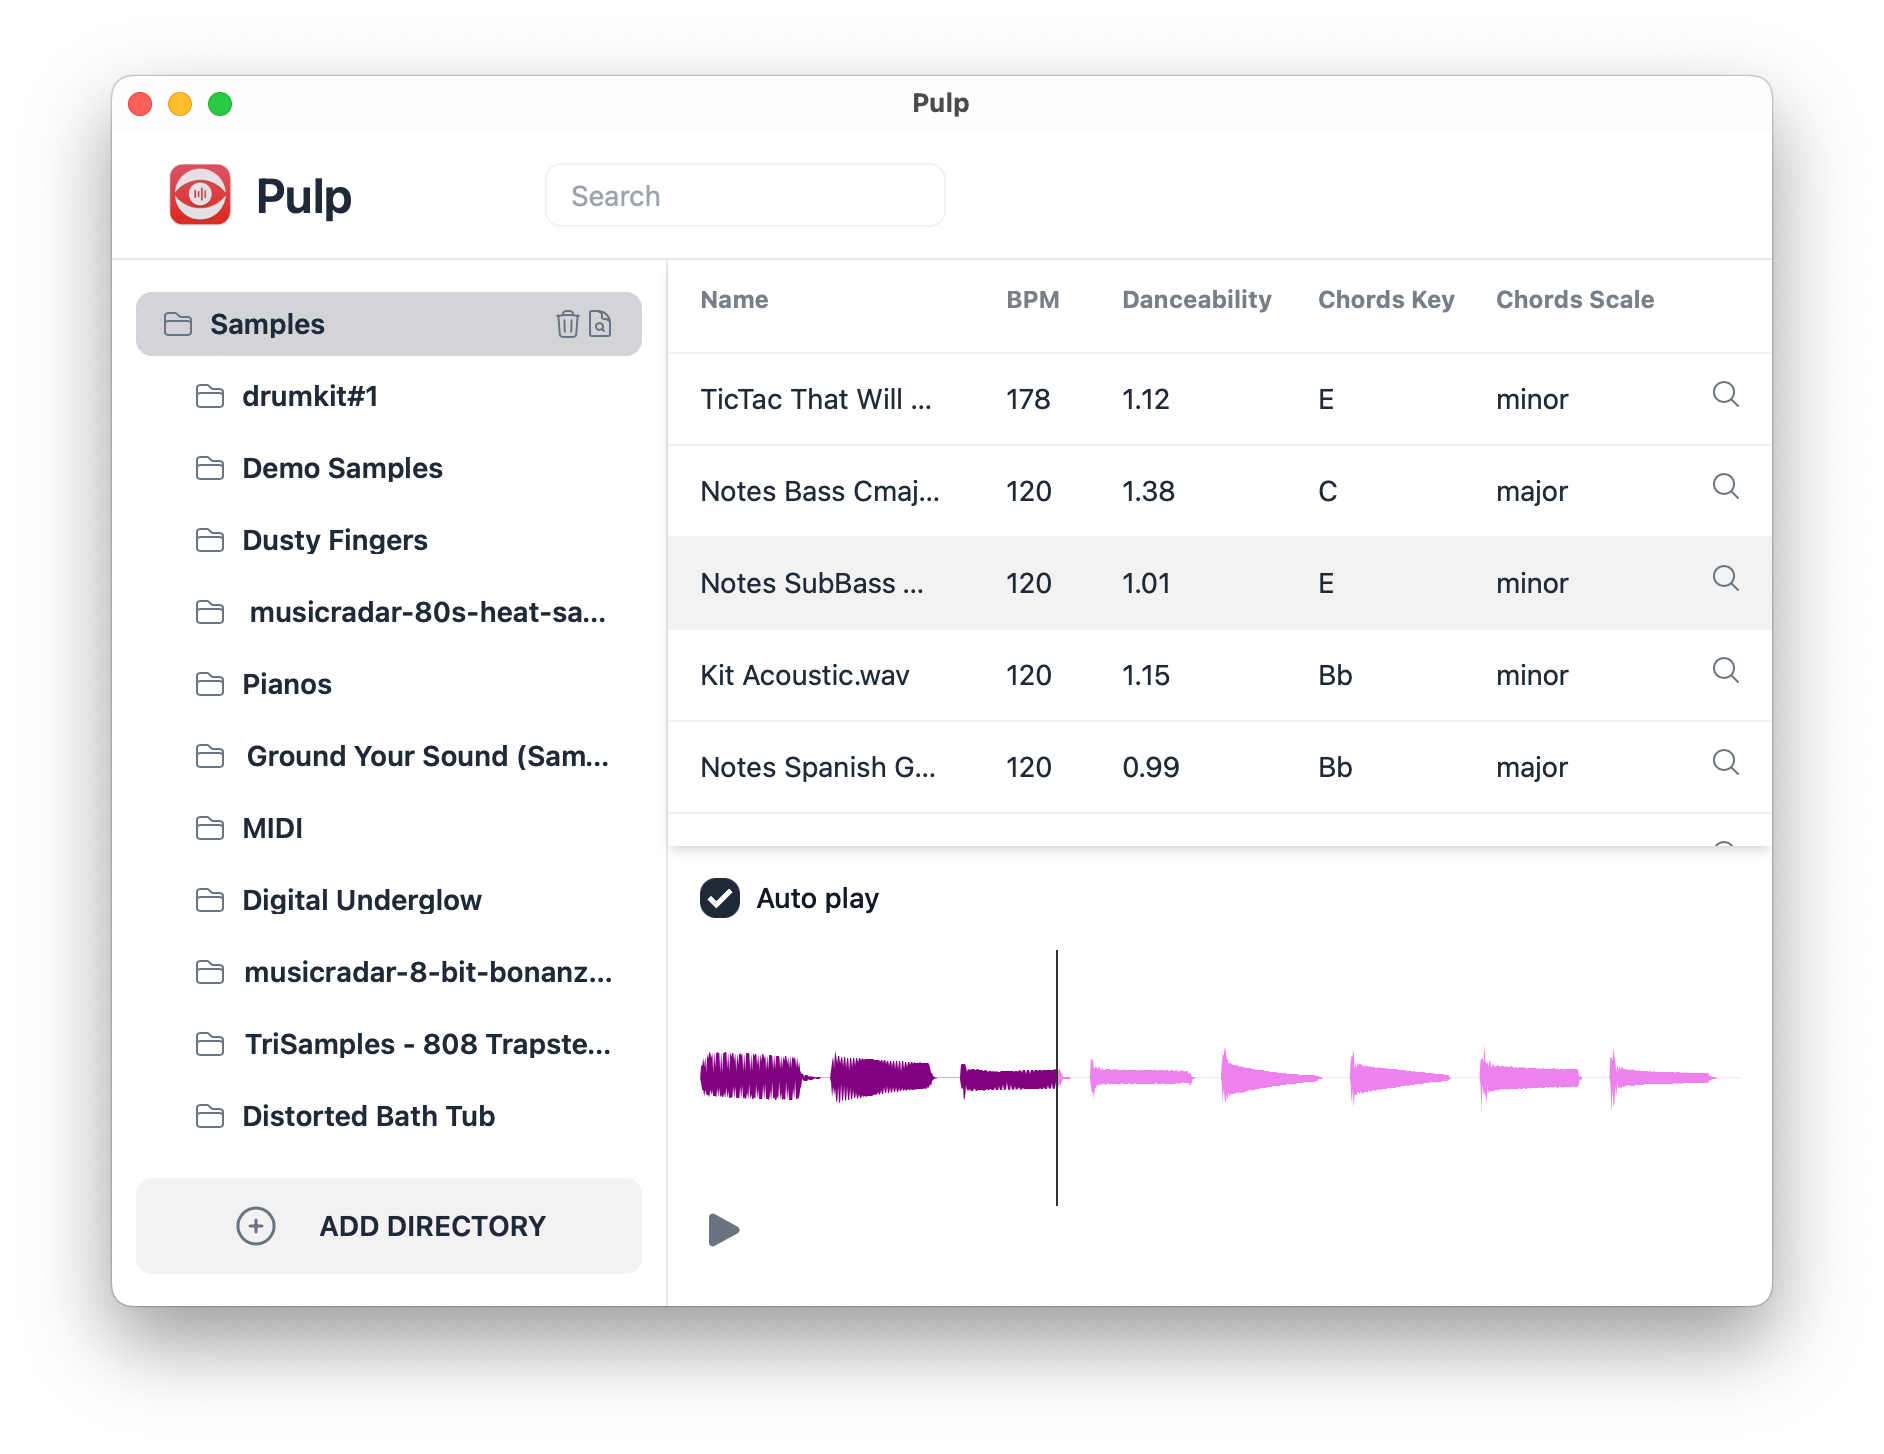
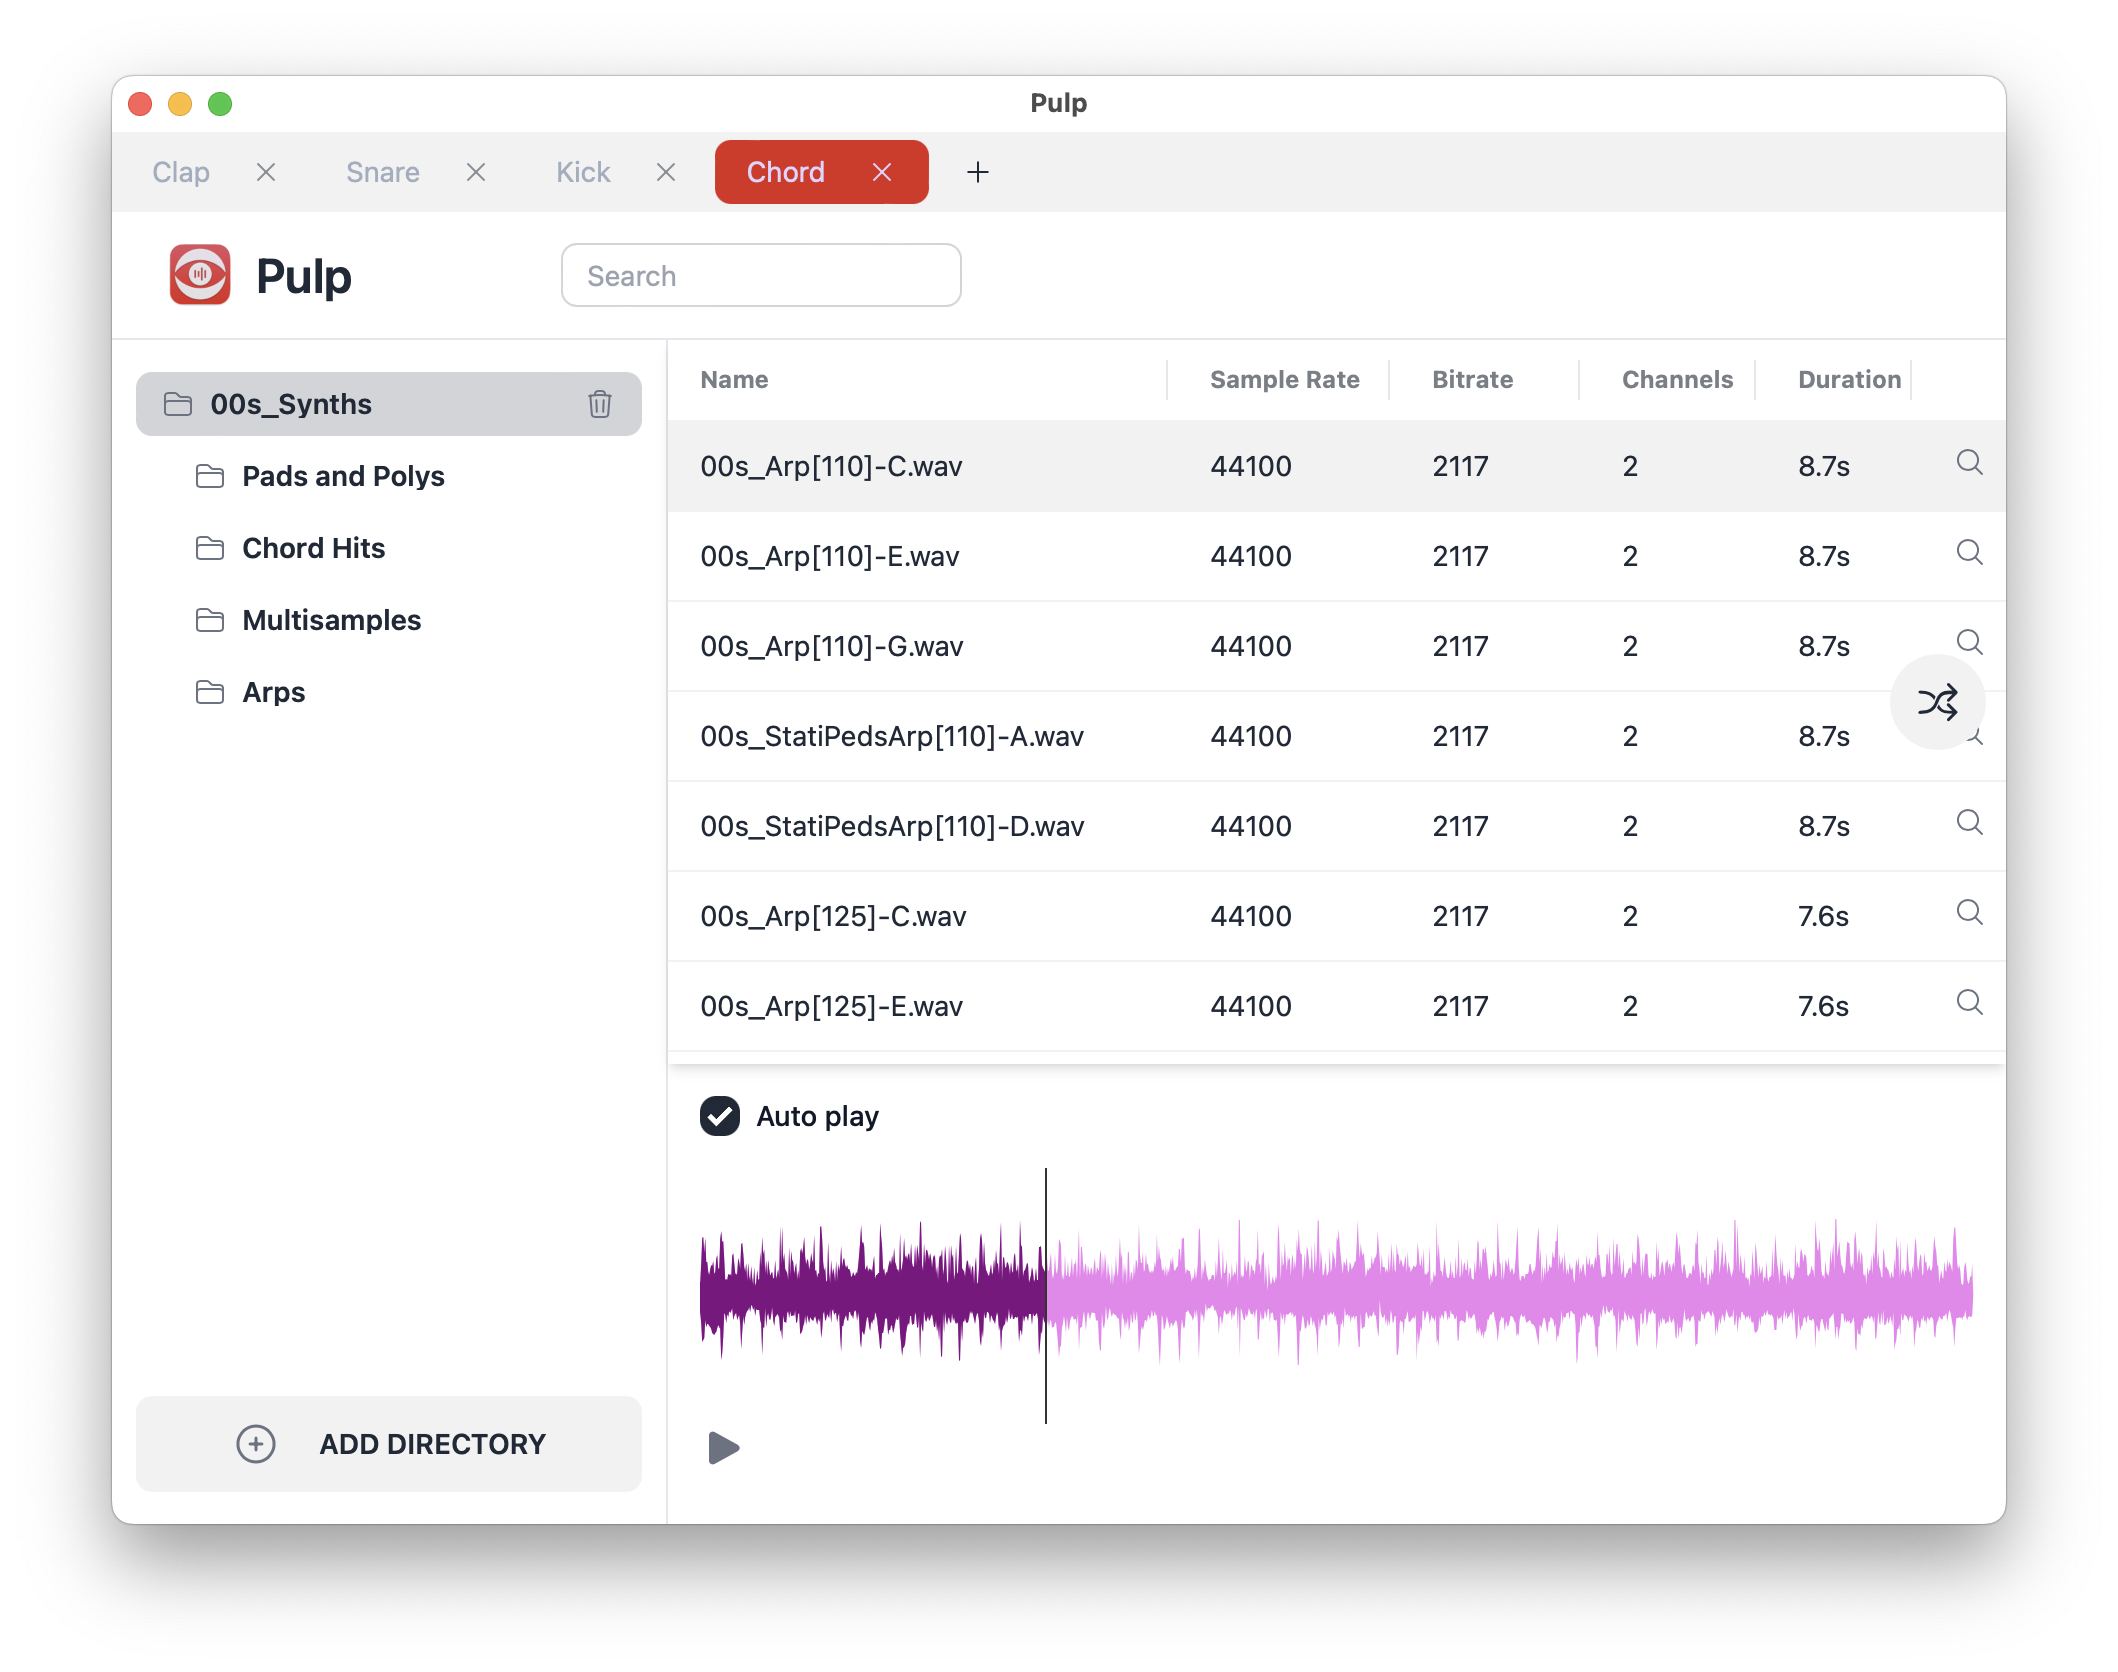
feat: rename tabs and UI fix (#15)

diff --git a/src/components/Tabs/Tabs.tsx b/src/components/Tabs/Tabs.tsx
@@ -1,8 +1,9 @@
 import tabsStore from "@/stores/tabsStore/tabsStore";
 import { Icon } from "solid-heroicons";
 import { plus, xMark } from "solid-heroicons/outline";
-import { Component, FlowComponent, For } from "solid-js";
+import { Component, FlowComponent, For, createSignal } from "solid-js";
 import { Dynamic } from "solid-js/web";
+import { useFocus } from "solidjs-use";
 
 interface Props {
   setActive: (tabIndex: number) => void;
@@ -13,30 +14,57 @@ interface Props {
 const Tabs: FlowComponent<Props, Component<any>> = (props) => {
   return (
     <>
-      <div class="tabs tabs-boxed tabs-xs flex items-center rounded-none">
+      <div class="tabs tabs-boxed tabs-xs flex items-center rounded-none overflow-x-auto flex-nowrap">
         <For each={tabsStore.data}>
           {(item, index) => {
+            const [target, setTarget] = createSignal<HTMLInputElement>();
+            const [, setFocused] = useFocus(target);
+            const [getRenamingMode, setRenamingMode] = createSignal(false);
+
             return (
-              <>
-                <a
-                  onClick={() => props.setActive(index())}
-                  class="tab"
-                  classList={{
-                    "tab-active": item.active,
+              <a
+                ondblclick={(event) => {
+                  event.stopPropagation();
+                  setRenamingMode(true);
+                  setFocused(true);
+                  target()?.select();
+                }}
+                onClick={() => props.setActive(index())}
+                class="tab flex-shrink-0"
+                classList={{
+                  "tab-active": item.active,
+                }}
+              >
+                <label class="input-sizer" data-value={item.name}>
+                  <input
+                    ref={setTarget}
+                    type="text"
+                    value={item.name}
+                    disabled={!getRenamingMode()}
+                    onBlur={() => setRenamingMode(false)}
+                    onInput={(event) => {
+                      tabsStore.rename(index(), event.target.value);
+                    }}
+                    onKeyDown={(event) => {
+                      if (event.key === "Enter") {
+                        event.preventDefault();
+                        setFocused(false);
+                      }
+                    }}
+                  />
+                </label>
+
+                <button
+                  class="ml-4 currentColor"
+                  onClick={(event) => {
+                    event.stopPropagation();
+                    tabsStore.activateNextOrPreviousTab(index());
+                    tabsStore.closeTab(index());
                   }}
                 >
-                  {item.name || `Tab ${index()}`}
-                  <button
-                    class="ml-4 currentColor"
-                    onClick={(event) => {
-                      event.stopPropagation();
-                      tabsStore.closeTab(index());
-                    }}
-                  >
-                    <Icon path={xMark} class="flex-shrink-0 w-4" />
-                  </button>
-                </a>
-              </>
+                  <Icon path={xMark} class="flex-shrink-0 w-4" />
+                </button>
+              </a>
             );
           }}
         </For>

diff --git a/src/stores/tabsStore/tabsStore.ts b/src/stores/tabsStore/tabsStore.ts
@@ -18,9 +18,9 @@ const setTabsStore: SetStoreFunction<ITabs[]> = (...args: any[]) => {
 };
 
 const addTab = (): void => {
-  setTabsStore((t) => [
-    ...t,
-    { ...cloneDeep(initialSearchStore), name: `Tab ${t.length}` },
+  setTabsStore((tabs) => [
+    ...tabs,
+    { ...cloneDeep(initialSearchStore), name: `Tab ${tabs.length + 1}` },
   ]);
 };
 
@@ -28,6 +28,12 @@ const closeTab = (tabIndex: number): void => {
   setTabsStore((tabs) => {
     return tabs.filter((_, index) => index !== tabIndex);
   });
+};
+
+const activateNextOrPreviousTab = (tabIndex: number): void => {
+  const nextIndex =
+    tabIndex + 1 < appStore.tabs.length ? tabIndex + 1 : tabIndex - 1;
+  active(nextIndex);
 };
 
 const active = (tabIndex: number): void => {
@@ -38,6 +44,10 @@ const active = (tabIndex: number): void => {
   });
 };
 
+const rename = (tabIndex: number, name: string): void => {
+  setTabsStore(tabIndex, "name", name);
+};
+
 export default {
   get data() {
     return appStore.tabs;
@@ -46,4 +56,6 @@ export default {
   addTab,
   active,
   closeTab,
+  activateNextOrPreviousTab,
+  rename,
 };

diff --git a/src/index.css b/src/index.css
@@ -129,3 +129,33 @@ body {
         @apply text-base-content/60 whitespace-nowrap text-xs font-bold;
     }
 }
+
+
+
+
+
+
+.input-sizer {
+  position: relative;
+  
+  & input,
+  textarea {
+    position: absolute;
+    left: 0;
+    top: 0;
+    width: 100%;
+    appearance: none;
+    border: none;
+    background: transparent;
+    padding: 0;
+    margin: 0;
+    outline: none; /* focus:outline-none equivalent */
+  }
+  
+  &::after {
+    content: attr(data-value) ' ';
+    visibility: hidden;
+    white-space: pre-wrap;
+  }
+  
+}

diff --git a/src/services/filesServices.ts b/src/services/filesServices.ts
@@ -25,8 +25,7 @@ export const getDirectoryFiles: ResourceFetcher<
     skip,
   });
 
-  const response = paddedSplice(prevValue, skip, data);
-  return response;
+  return paddedSplice(prevValue, skip, data);
 };
 
 export const getMetadataFiles: ResourceFetcher<
